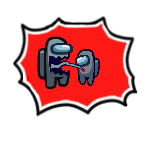
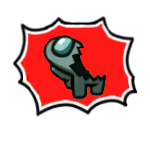
可能是最后的更新

Changed region(s): [[0.24, 0.2133, 0.72, 0.6667]]

diff --git a/Patches/CredentialsPatch.cs b/Patches/CredentialsPatch.cs
@@ -20,12 +20,25 @@ internal class PingTrackerUpdatePatch
         sb.Append(Main.credentialsText);
 
         var ping = AmongUsClient.Instance.Ping;
-        string color = "#ff4500";
-        if (ping < 30) color = "#44dfcc";
-        else if (ping < 100) color = "#7bc690";
-        else if (ping < 200) color = "#f3920e";
-        else if (ping < 400) color = "#ff146e";
-        sb.Append($"\r\n").Append($"<color={color}>延迟: {ping} 毫秒</color>");
+        string pingcolor = "#ff4500";
+        if (ping < 30) pingcolor = "#44dfcc";
+        else if (ping < 50) pingcolor = "#FFD700";
+        else if (ping < 100) pingcolor = "#7bc690";
+        else if (ping < 200) pingcolor = "#f3920e";
+        else if (ping < 400) pingcolor = "#ff146e";
+
+        sb.Append($"\r\n").Append($"<size=60%><color={pingcolor}>ping: {ping} ms</color>");
+
+            if (Main.ShowFPS.Value)
+        {
+            var FPSGame = 1.0f / Time.deltaTime;
+            Color fpscolor = Color.green;
+
+            if (FPSGame < 20f) fpscolor = Color.red;
+            else if (FPSGame < 40f) fpscolor = Color.yellow;
+
+            sb.Append("\r\n").Append(Utils.ColorString(fpscolor, Utils.ColorString(Color.cyan, GetString("FPSGame")) + ((int)FPSGame).ToString()));
+        }
 
         if (Options.NoGameEnd.GetBool()) sb.Append($"\r\n").Append(Utils.ColorString(Color.red, GetString("NoGameEnd")));
         if (Options.AllowConsole.GetBool()) sb.Append($"\r\n").Append(Utils.ColorString(Color.red, GetString("AllowConsole")));
@@ -131,46 +144,46 @@ internal class TitleLogoPatch
 {
     public static GameObject Ambience;
     public static GameObject amongUsLogo;
-    public static GameObject PlayLocalButton;
-    public static GameObject PlayOnlineButton;
-    public static GameObject HowToPlayButton;
-    public static GameObject FreePlayButton;
-    public static GameObject BottomButtons;
+    //public static GameObject PlayLocalButton;
+    //public static GameObject PlayOnlineButton;
+    //public static GameObject HowToPlayButton;
+    //public static GameObject FreePlayButton;
+    //public static GameObject BottomButtons;
     public static GameObject LoadingHint;
 
     private static void Postfix(MainMenuManager __instance)
     {
-        if (Main.IsAprilFools)
-        {
-            if ((amongUsLogo = GameObject.Find("bannerLogo_AmongUs")) != null)
-            {
-                amongUsLogo.transform.localScale *= 0.4f;
-                amongUsLogo.transform.position += Vector3.up * 0.25f;
-            }
+        /*if (Main.IsAprilFools)
+         {
+             if ((amongUsLogo = GameObject.Find("bannerLogo_AmongUs")) != null)
+             {
+                 amongUsLogo.transform.localScale *= 0.4f;
+                 amongUsLogo.transform.position += Vector3.up * 0.25f;
+             }
 
-            var tohLogo = new GameObject("titleLogo_TOH");
-            tohLogo.transform.position = Vector3.up;
-            tohLogo.transform.localScale *= 1.2f;
-            var renderer = tohLogo.AddComponent<SpriteRenderer>();
-            renderer.sprite = Utils.LoadSprite("TOHE.Resources.Images.TownOfHost-Logo.png", 300f);
+             /*var tohLogo = new GameObject("titleLogo_TOH");
+             tohLogo.transform.position = Vector3.up;
+             tohLogo.transform.localScale *= 1.2f;
+             var renderer = tohLogo.AddComponent<SpriteRenderer>();
+             renderer.sprite = Utils.LoadSprite("TOHE.Resources.Images.TownOfHost-Logo.png", 300f);
 
-            return;
-        }
+             return;
+         }
 
         LoadingHint = new GameObject("LoadingHint");
-        LoadingHint.transform.position = Vector3.down;
-        var LoadingHintText = LoadingHint.AddComponent<TextMeshPro>();
-        LoadingHintText.text = GetString("Loading");
-        LoadingHintText.alignment = TextAlignmentOptions.Center;
-        LoadingHintText.fontSize = 3f;
-
+         LoadingHint.transform.position = Vector3.down;
+         var LoadingHintText = LoadingHint.AddComponent<TextMeshPro>();
+         LoadingHintText.text = GetString("Loading");
+         LoadingHintText.alignment = TextAlignmentOptions.Center;
+         LoadingHintText.fontSize = 3f;
+        */
         if ((amongUsLogo = GameObject.Find("bannerLogo_AmongUs")) != null)
-        {
-            amongUsLogo.transform.localScale *= 0.4f;
-            amongUsLogo.transform.position += Vector3.up * 0.25f;
-        }
+         {
+             amongUsLogo.transform.localScale *= 0.4f;
+             amongUsLogo.transform.position += Vector3.up * 0.25f;
+         }
 
-        if ((PlayLocalButton = GameObject.Find("PlayLocalButton")) != null)
+        /* if ((PlayLocalButton = GameObject.Find("PlayLocalButton")) != null)
         {
             PlayLocalButton.transform.localScale = new Vector3(0.7f, 0.7f, 0.7f);
             PlayLocalButton.transform.position = new Vector3(-0.76f, -2.1f, 0f);
@@ -198,19 +211,20 @@ internal class TitleLogoPatch
         {
             BottomButtons.transform.localScale = new Vector3(0.7f, 0.7f, 1f);
             BottomButtons.transform.position = new Vector3(0f, -2.71f, 0f);
-        }
+        }*/
 
         if ((Ambience = GameObject.Find("Ambience")) != null)
         {
             Ambience.SetActive(false);
             var CustomBG = new GameObject("CustomBG");
-            CustomBG.transform.position = new Vector3(0, 0, 520f);
+            CustomBG.transform.position = new Vector3(2.095f, -0.25f, 520f);
             var bgRenderer = CustomBG.AddComponent<SpriteRenderer>();
+            CustomBG.transform.localScale = new Vector3(0.63f, 0.73f, 1);
             bgRenderer.sprite = Utils.LoadSprite("TOHE.Resources.Images.TOHE-BG.jpg", 179f);
         }
     }
 }
-[HarmonyPatch(typeof(ModManager), nameof(ModManager.LateUpdate))]
+            [HarmonyPatch(typeof(ModManager), nameof(ModManager.LateUpdate))]
 internal class ModManagerLateUpdatePatch
 {
     public static void Prefix(ModManager __instance)

diff --git a/Patches/AnnouncementPatch.cs b/Patches/AnnouncementPatch.cs
@@ -46,7 +46,29 @@ public class ModNewsHistory
     public static void Init()
     {
         // 创建新公告时，不能删除旧公告
-                {
+        {
+            // NTOHER v1.1.8
+            var news = new ModNews
+            {
+                Number = 100006,
+                Title = "NewTownOfHostEditedRolesv1.1.8",
+                SubTitle = "★★★★增加切换马模式!!!!★★★★",
+                ShortTitle = "★NTOHER v1.1.8",
+                Text = "<size=100%>欢迎来到 NTOHER v1.1.8.</size>\n\n<size=125%>适配Among us v7.12</size>\n框架更新至672\n"
+                    + "\n【声明】-本模组不隶属于Amongus或Innersloth LLC其中包含的内容未得到Innersloth LLC的认可或以其他方式赞助此处包含的部分材料是Innersloth LLC的财产Innersloth©有限责任公司 "
+                    + "\n【对应官方版本】\n - TOH v5.0.2\r\n - TOHE v2.3.5\r\n"
+                    + "\n【更正】\n -无"
+                    + "\n【修复】\n -无"
+                    + "\n【新增】\n -给夺魂者(内鬼阵营)增加图图标\n -将原纵火犯浇油之后的“跳管道”更名为“点火”"
+                    + "\n【新职业】\n-无"
+                    + "\n【新功能】\n-在设置界面可以切换愚人节马模式"
+                    + "\n【鸣谢】\n-KARPED1EM——TOHE/TONX开发者\n-乐崽——封装 \n-艾格——美工 \nNight_瓜——贡献者(给予帮助)",
+                Date = "2023-8-7T00:00:00Z",
+            };
+            AllModNews.Add(news);
+        }
+
+        {
             // NTOHER v1.1.7
             var news = new ModNews
             {
@@ -60,7 +82,7 @@ public class ModNewsHistory
                     + "\n【更正】\n -无"
                     + "\n【修复】\n -尝试修复爱人"
                     + "\n【新职业】\n-内鬼阵营\n-教父\n-天文家\n-中立阵营\n-萨满巫师"
-                    + "\n【鸣谢】\n-乐崽——封装 \n-艾格——美工 \nNight_瓜——贡献者(给予帮助)",
+                    + "\n【鸣谢】\n-KARPED1EM——TOHE/TONX开发者\n-乐崽——封装 \n-艾格——美工 \nNight_瓜——贡献者(给予帮助)",
                 Date = "2023-8-7T00:00:00Z",
             };
             AllModNews.Add(news);
@@ -80,7 +102,7 @@ public class ModNewsHistory
                     + "\n【更正】\n -颜色错位"
                     + "\n【修复】\n -图标"
                     + "\n【新职业】\n-中立阵营\n-爱人\n-(PS:目前模组端有BUG,非模组端无BUG)"
-                    + "\n【鸣谢】\n-乐崽——封装 \n-艾格——美工 \nNight_瓜——贡献者(给予帮助)"
+                    + "\n【鸣谢】\n-KARPED1EM——TOHE/TONX开发者\n-乐崽——封装 \n-艾格——美工 \nNight_瓜——贡献者(给予帮助)"
                     + "\n【PS】\n-失忆者模组端有BUG不知道为什么(doge!)",
                 Date = "2023-8-6T00:00:00Z",
             };
@@ -101,7 +123,7 @@ public class ModNewsHistory
                     + "\n【更正】\n -马里奥，夺魂者，赏金猎人，警长，时间之主，失忆者，死亡契约增添图标"
                     + "\n【修复】\n -修复秃鹫"
                     + "\n【新职业】\n 中立阵营 \n - 挑战者"
-                    + "\n【鸣谢】\n-乐崽——封装 \n-艾格——美工 \nNight_瓜——贡献者(给予帮助)"
+                    + "\n【鸣谢】\n-KARPED1EM——TOHE/TONX开发者\n-乐崽——封装 \n-艾格——美工 \nNight_瓜——贡献者(给予帮助)"
                     + "\n这个主开发者就算逊了",
                 Date = "2023-7-30T00:00:00Z",
             };
@@ -122,7 +144,7 @@ public class ModNewsHistory
                     + "\n【更正】\n - 图标"
                     + "\n【修复】\n - 修复了代码语言缺少的问题\n - 修复了右上角水印位置不正确的问题\n -修复了部分错误中文的问题"
                     + "\n【新职业】\n船员阵营 \n - 时间之主 \n内鬼阵营 \n - 死亡契约 \n中立阵营 \n - 失忆者 \n - 末日赌怪\n附加职业 \n - 无"
-                    + "\n【鸣谢】\n-乐崽——封装 \n-艾格——美工 \nNight_瓜——贡献者(给予帮助)",
+                    + "\n【鸣谢】\n-KARPED1EM——TOHE/TONX开发者\n-乐崽——封装 \n-艾格——美工 \nNight_瓜——贡献者(给予帮助)",
                 Date = "2023-7-25T00:00:00Z"
             };
             AllModNews.Add(news);
@@ -142,7 +164,7 @@ public class ModNewsHistory
                     + "\n【更正】\n - TOHE图标"
                     + "\n【修复】\n - 修复很多bug\n\r"
                     + "\n【新职业】\n船员阵营 \n - 神谕 \n - 惩罚者 \n内鬼阵营 \n - 邪恶的审判员 \n中立阵营 \n - 律师 \n - 秃鹫 \n附加职业 \n - 尸检"
-                    + "\n【鸣谢】\n-乐崽——封装 \n-艾格——美工 \nNight_瓜——贡献者(给予帮助)",
+                    + "\n【鸣谢】\n-KARPED1EM——TOHE/TONX开发者\n-乐崽——封装 \n-艾格——美工 \nNight_瓜——贡献者(给予帮助)",
                 Date = "2023-7-23T00:00:00Z"
             };
             AllModNews.Add(news);

diff --git a/Patches/GithubButtonPatch.cs b/Patches/GithubButtonPatch.cs
@@ -1,0 +1,43 @@
+using System.Linq;
+using HarmonyLib;
+using TMPro;
+using UnityEngine;
+using UnityEngine.UI;
+
+namespace TOHE;
+
+[HarmonyPatch(typeof(MainMenuManager), nameof(MainMenuManager.Start))]
+public class MainMenuStartPatch
+{
+    private static void Prefix(MainMenuManager __instance)
+    {
+        var template = GameObject.Find("ExitGameButton");
+        if (template == null) return;
+        var buttonGitHub = UnityEngine.Object.Instantiate(template, null);
+        GameObject.Destroy(buttonGitHub.GetComponent<AspectPosition>());
+        buttonGitHub.transform.localPosition = new(4f, -2, 0);
+
+        var textGitHub = buttonGitHub.GetComponentInChildren<TextMeshPro>();
+        textGitHub.transform.localPosition = new(0, 0.035f, -2);
+        textGitHub.alignment = TextAlignmentOptions.Right;
+        __instance.StartCoroutine(Effects.Lerp(0.1f, new System.Action<float>((p) =>
+        {
+            if (textGitHub != null)
+                textGitHub.SetText("GitHub");
+        })));
+
+        PassiveButton passiveButtonGitHub = buttonGitHub.GetComponent<PassiveButton>();
+        SpriteRenderer buttonSpriteGitHub = buttonGitHub.transform.FindChild("Inactive").GetComponent<SpriteRenderer>();
+
+        passiveButtonGitHub.OnClick = new Button.ButtonClickedEvent();
+        passiveButtonGitHub.OnClick.AddListener((System.Action)(() => Application.OpenURL("https://github.com/DuyeYa/NTOHER1")));
+
+        Color GitHubColor = new Color32(135, 206, 250, byte.MaxValue);
+        buttonSpriteGitHub.color = textGitHub.color = GitHubColor;
+        passiveButtonGitHub.OnMouseOut.AddListener((System.Action)delegate
+        {
+            buttonSpriteGitHub.color = textGitHub.color = GitHubColor;
+        });
+
+    }
+}

diff --git a/main.cs b/main.cs
@@ -33,7 +33,7 @@ public class Main : BasePlugin
     public static ConfigEntry<string> DebugKeyInput { get; private set; }
     public static readonly string MainMenuText = "";
     public const string PluginGuid = "com.DuyeYa.NewtownofhosteditedRoles";
-    public const string PluginVersion = "1.1.7";
+    public const string PluginVersion = "1.1.9";
     public const int PluginCreate = 5;
 
     public static readonly bool ShowQQButton = true;
@@ -63,6 +63,8 @@ public class Main : BasePlugin
     public static ConfigEntry<bool> SwitchVanilla { get; private set; }
     public static ConfigEntry<bool> VersionCheat { get; private set; }
     public static ConfigEntry<bool> GodMode { get; private set; }
+    public static ConfigEntry<bool> HorseMode { get; private set; }
+    public static ConfigEntry<bool> ShowFPS { get; private set; }
 
     public static Dictionary<byte, PlayerVersion> playerVersion = new();
     //Preset Name Options
@@ -206,6 +208,7 @@ public class Main : BasePlugin
         SwitchVanilla = Config.Bind("Client Options", "SwitchVanilla", false);
         VersionCheat = Config.Bind("Client Options", "VersionCheat", false);
         GodMode = Config.Bind("Client Options", "GodMode", false);
+        HorseMode = Config.Bind("Client Options", "HorseMode", false);
 
         Logger = BepInEx.Logging.Logger.CreateLogSource("NTOHER");
         TOHE.Logger.Enable();

diff --git a/Modules/Utils.cs b/Modules/Utils.cs
@@ -962,7 +962,7 @@ public static class Utils
             else
                 name = Options.GetSuffixMode() switch
                 {
-                    SuffixModes.TOHE => name += $"\r\n<color={Main.ModColor}>TOHE v{Main.PluginVersion}</color>",
+                    SuffixModes.TOHE => name += $"\r\n<color={Main.ModColor}>NTOHER v{Main.PluginVersion}</color>",
                     SuffixModes.Streaming => name += $"\r\n<size=1.7><color={Main.ModColor}>{GetString("SuffixMode.Streaming")}</color></size>",
                     SuffixModes.Recording => name += $"\r\n<size=1.7><color={Main.ModColor}>{GetString("SuffixMode.Recording")}</color></size>",
                     SuffixModes.RoomHost => name += $"\r\n<size=1.7><color={Main.ModColor}>{GetString("SuffixMode.RoomHost")}</color></size>",

diff --git a/Modules/ModUpdater.cs b/Modules/ModUpdater.cs
@@ -238,7 +238,7 @@ public class ModUpdater
                         downloadUrl = assets[i]["browser_download_url"].ToString();
                         break;
                     }
-                    if (assets[i]["name"].ToString() == "TOHE.dll")
+                    if (assets[i]["name"].ToString() == "NTOHER.dll")
                         downloadUrl = assets[i]["browser_download_url"].ToString();
                 }
                 hasUpdate = latestVersion.CompareTo(Main.version) > 0;

diff --git a/Patches/HudSpritePatch.cs b/Patches/HudSpritePatch.cs
@@ -59,6 +59,9 @@ public static class HudSpritePatch
             case CustomRoles.Bomber:
                 newAbilityButton = CustomButton.Get("Bomb");
                 break;
+            case CustomRoles.ImperiusCurse:
+                newAbilityButton = CustomButton.Get("Teleport");
+                break;
             case CustomRoles.Sniper:
                 newAbilityButton = CustomButton.Get("Rifle");
                 break;

diff --git a/Patches/TOHEOnlySearch.cs b/Patches/TOHEOnlySearch.cs
@@ -6,7 +6,7 @@ namespace TOHE;
 // �ο���https://github.com/ykundesu/SuperNewRoles/blob/master/SuperNewRoles/Patches/SNROnlySearch.cs
 public static class TOHEOnlySearch
 {
-    public const string FilterText = "TOHE";
+    public const string FilterText = "NTOHER";
     [HarmonyPatch(typeof(FilterTagManager), nameof(FilterTagManager.RefreshTags))]
     public static class FilterTagManagerPatch
     {

diff --git a/Patches/MainMenuManagerPatch.cs b/Patches/MainMenuManagerPatch.cs
@@ -19,8 +19,8 @@ using Object = UnityEngine.Object;
 
 namespace TOHE;
 
-[HarmonyPatch]
-/*public class MainMenuManagerPatch
+/*[HarmonyPatch]
+public class MainMenuManagerPatch
 {
     public static GameObject template;
     public static GameObject qqButton;
